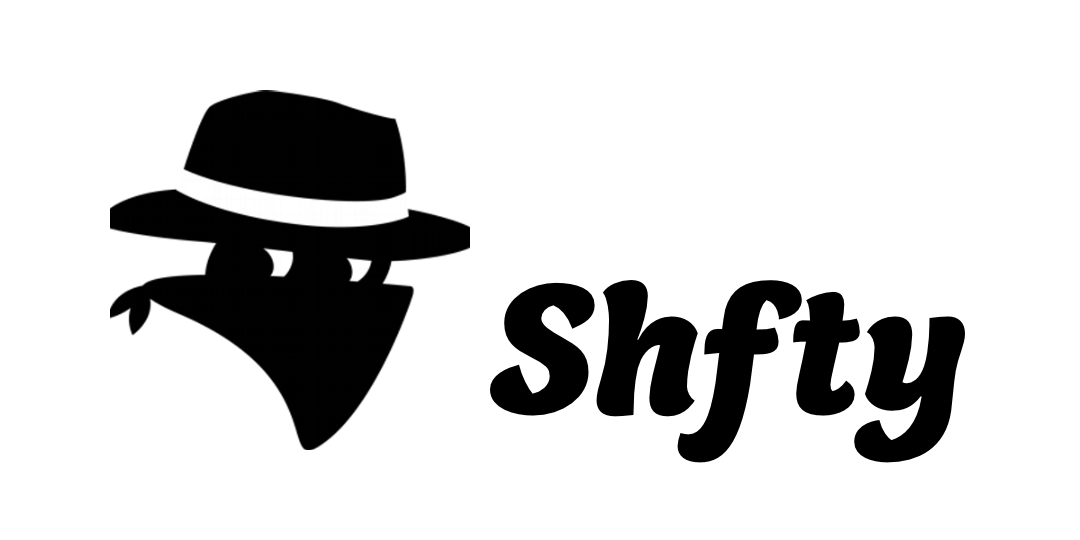
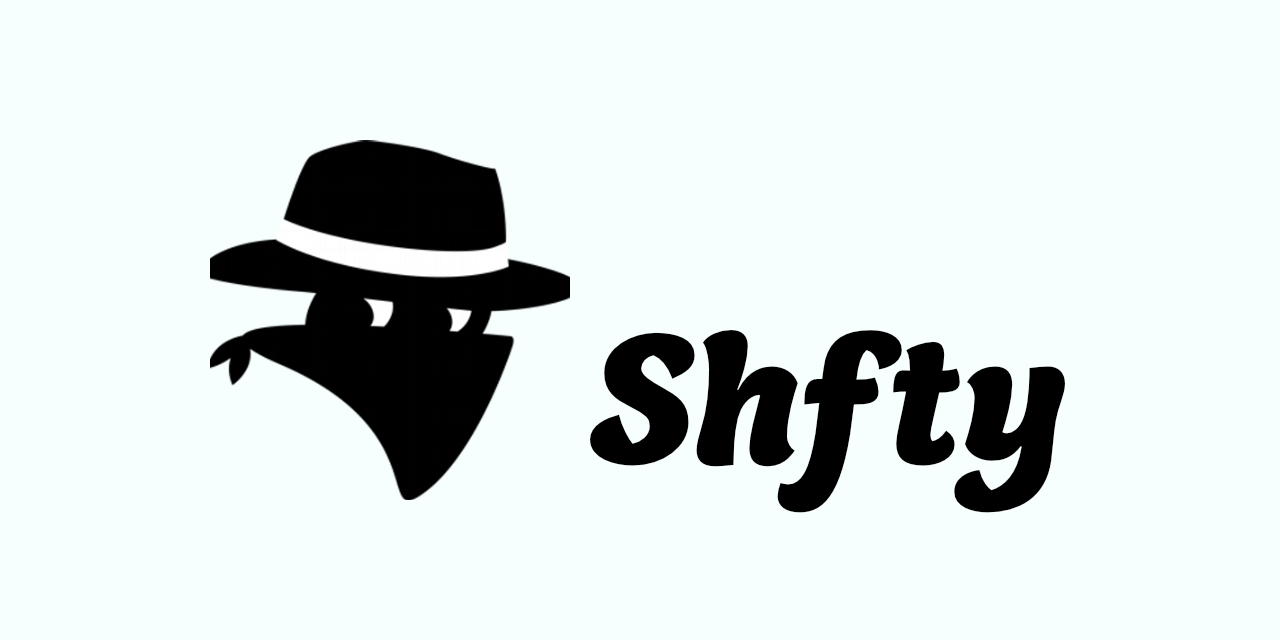
Fix image.

Changed region(s): [[0.4278, 0.5037, 0.9167, 0.8593], [0.0917, 0.1481, 0.4583, 0.8296], [0.4889, 0.5037, 0.5194, 0.5333]]

diff --git a/README.md b/README.md
@@ -2,7 +2,7 @@
 
 This repository is the submission for the Run Hackathon 2021 from team **Shfty**.
 
-![Shfty](https://github.com/libitx/run-hackathon-2021/raw/master/media/shifty.png)
+![Shfty](https://github.com/libitx/run-hackathon-2021/raw/master/media/shfty.png)
 
 **Team:**
 
